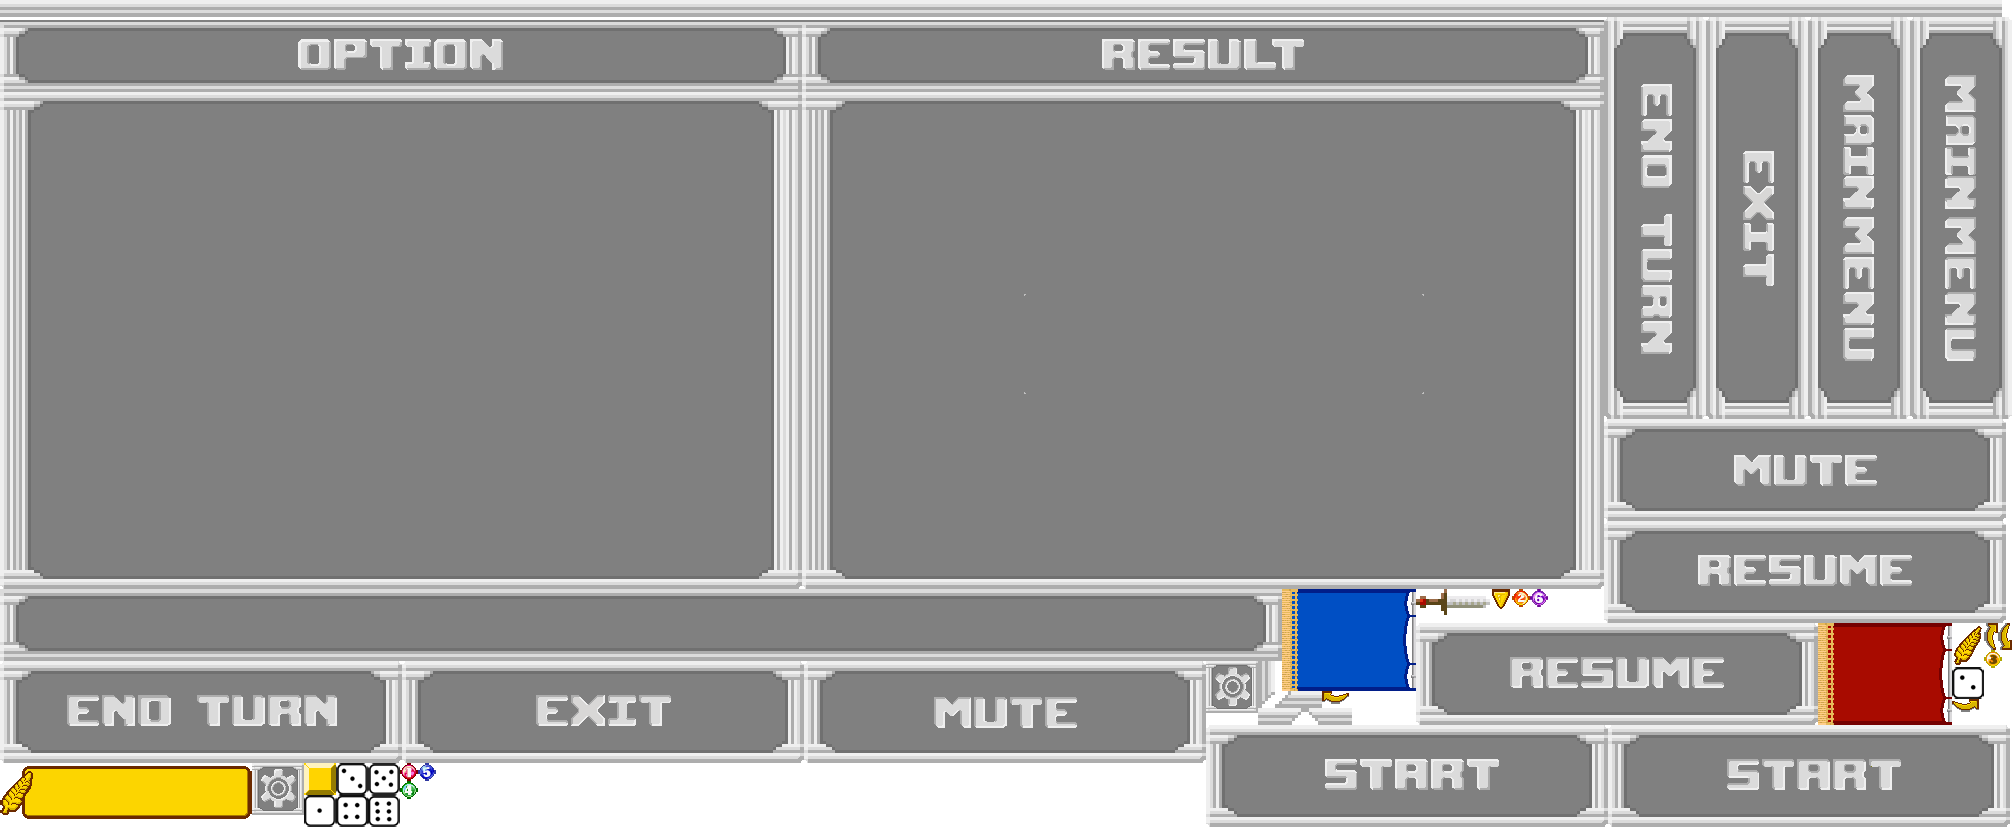
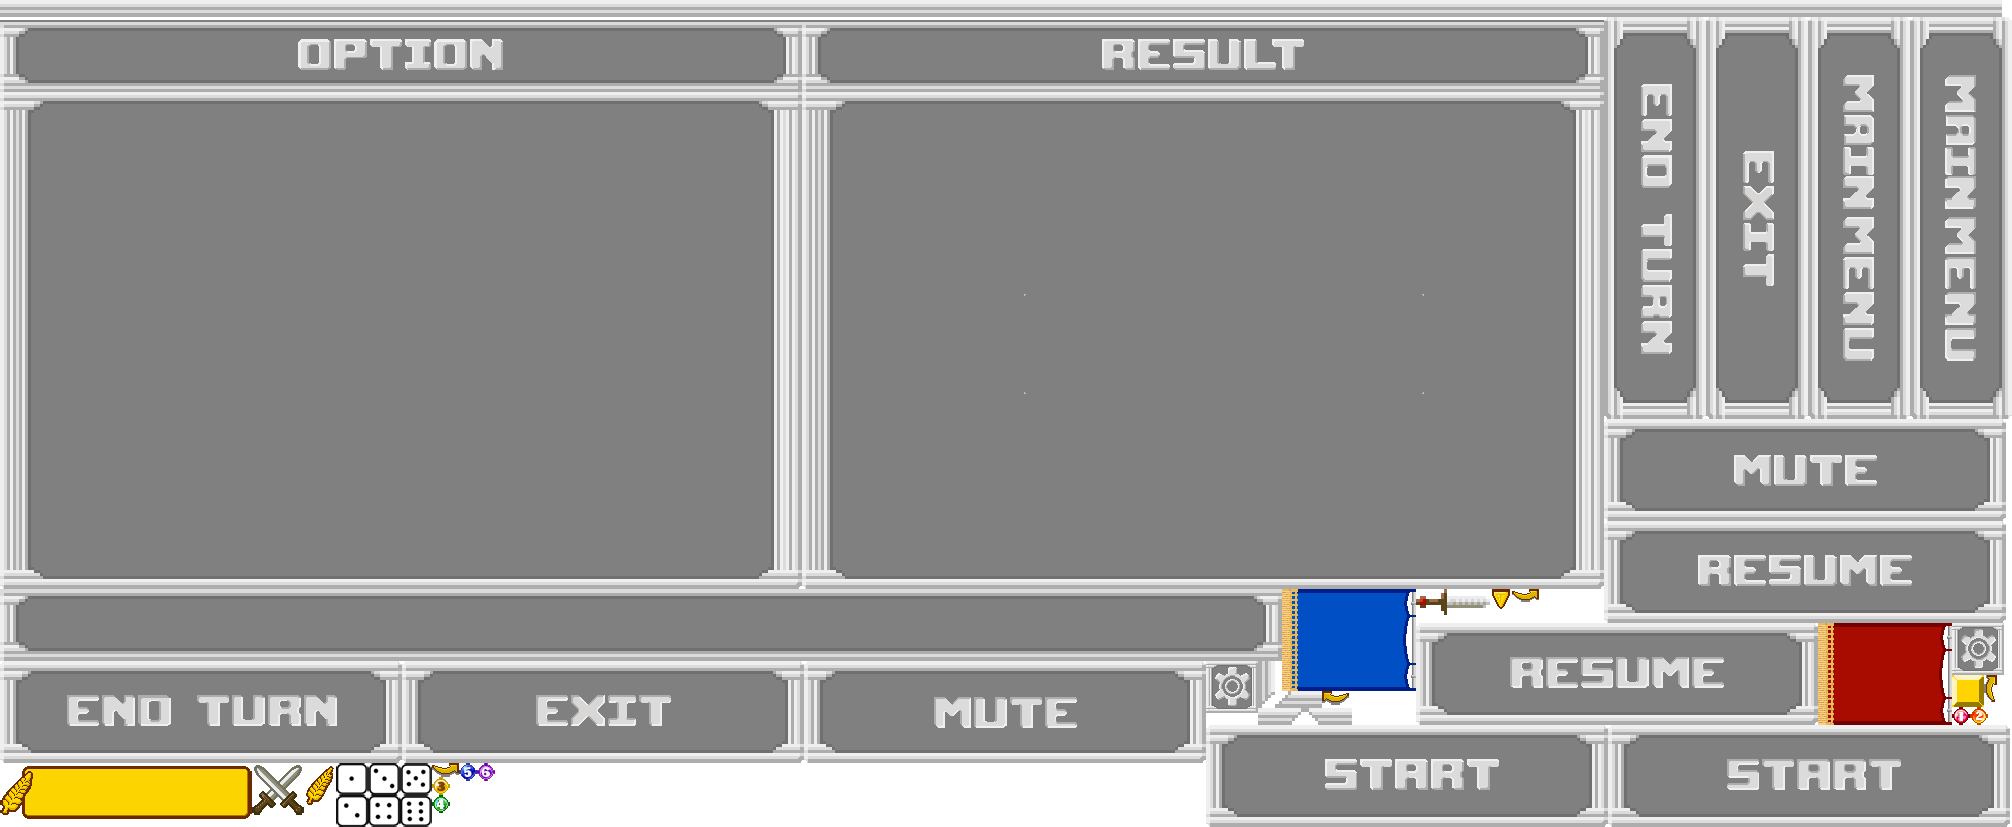
battle시 머리 위에 칼 표시

Changed region(s): [[0.1233, 0.9069, 0.2465, 1.0], [0.9553, 0.7557, 1.0, 0.8767], [0.7396, 0.6953, 0.7704, 0.7255]]

diff --git a/Cocos_practice/Classes/Character.cpp b/Cocos_practice/Classes/Character.cpp
@@ -129,12 +129,11 @@ void Character::ShowMovableTile()
 	{
 		if (tile->getCharacterOnThisTile()->GetOwnerPlayer() != GM->getCurrentPlayer())
 		{
-			Sprite* cursor = Sprite::createWithSpriteFrameName(FILENAME_IMG_MAIN_CURSOR);
-			cursor->setAnchorPoint(cocos2d::Vec2(0, 0));
-			cursor->setName("cursor");
-			cursor->setRotation(90.0f);
-			cursor->setPosition(cursor->getPositionX()+43, cursor->getPositionY()+167);
-			tile->getCharacterOnThisTile()->addChild(cursor);
+			Sprite* battle = Sprite::createWithSpriteFrameName(FILENAME_IMG_BATTLE_INDICATOR);
+			battle->setAnchorPoint(cocos2d::Vec2(0, 0));
+			battle->setName("cursor");
+			battle->setPosition(battle->getPositionX() + 43, battle->getPositionY() + 120);
+			tile->getCharacterOnThisTile()->addChild(battle);
 		}
 	}
 }

diff --git a/Cocos_practice/Classes/GameSceneManager.cpp b/Cocos_practice/Classes/GameSceneManager.cpp
@@ -175,6 +175,7 @@ void GameSceneManager::MoveCharacterByClick(Self_Tile* clickedTile)
 
 			if (clickedTile->getCharacterOnThisTile()->GetOwnerPlayer() != _CurrentPlayer)
 			{
+				RemoveCursor();
 				_BMInstance->BattleBetween(_CharacterToMove, clickedTile->getCharacterOnThisTile());
 				getCurrentPlayerData()->AddFood(clickedTile->getFoodToConsume() * -1);
 			}

diff --git a/Cocos_practice/Classes/definition.h b/Cocos_practice/Classes/definition.h
@@ -103,7 +103,7 @@ enum EventType
 #define FILENAME_IMG_ATTACK_POWER_4 "4.png"
 #define FILENAME_IMG_ATTACK_POWER_5 "5.png"
 #define FILENAME_IMG_ATTACK_POWER_6 "6.png"
-#define FILENAME_IMG_MAIN_CURSOR "cursor.png"
+#define FILENAME_IMG_BATTLE_INDICATOR "battle.png"
 
 //UI IMAGE
 #define FILENAME_IMG_UI_OUTER_BAR				"bar.png"
